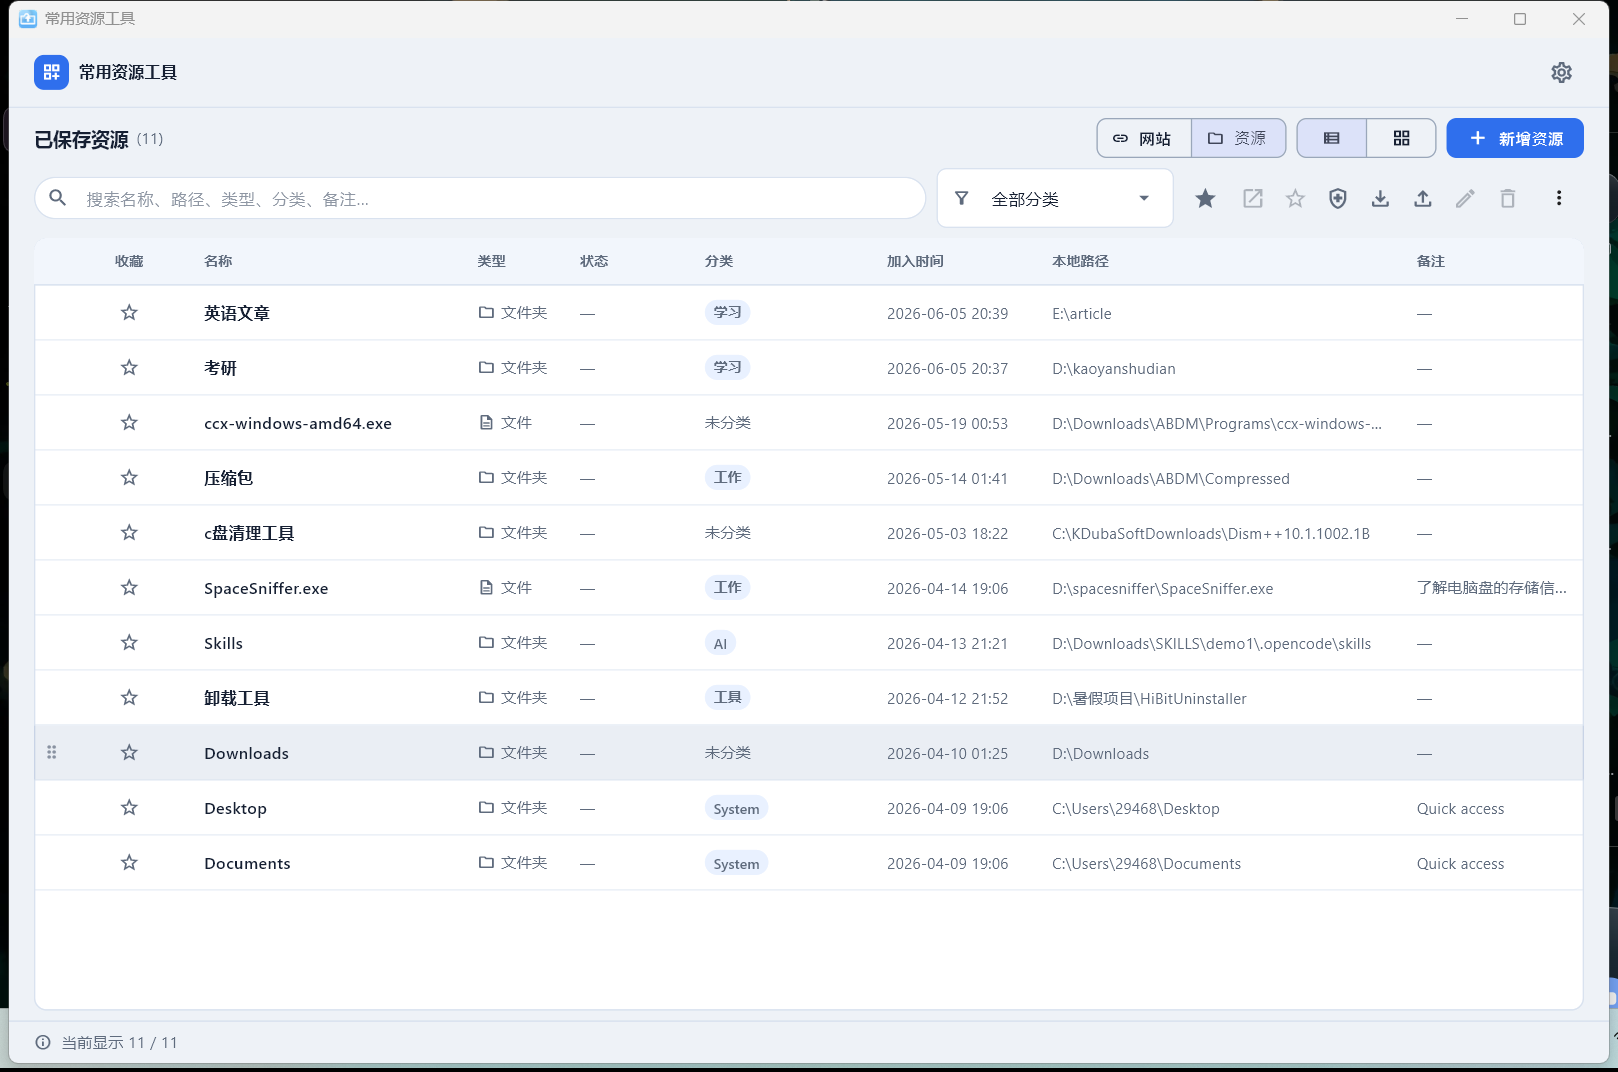
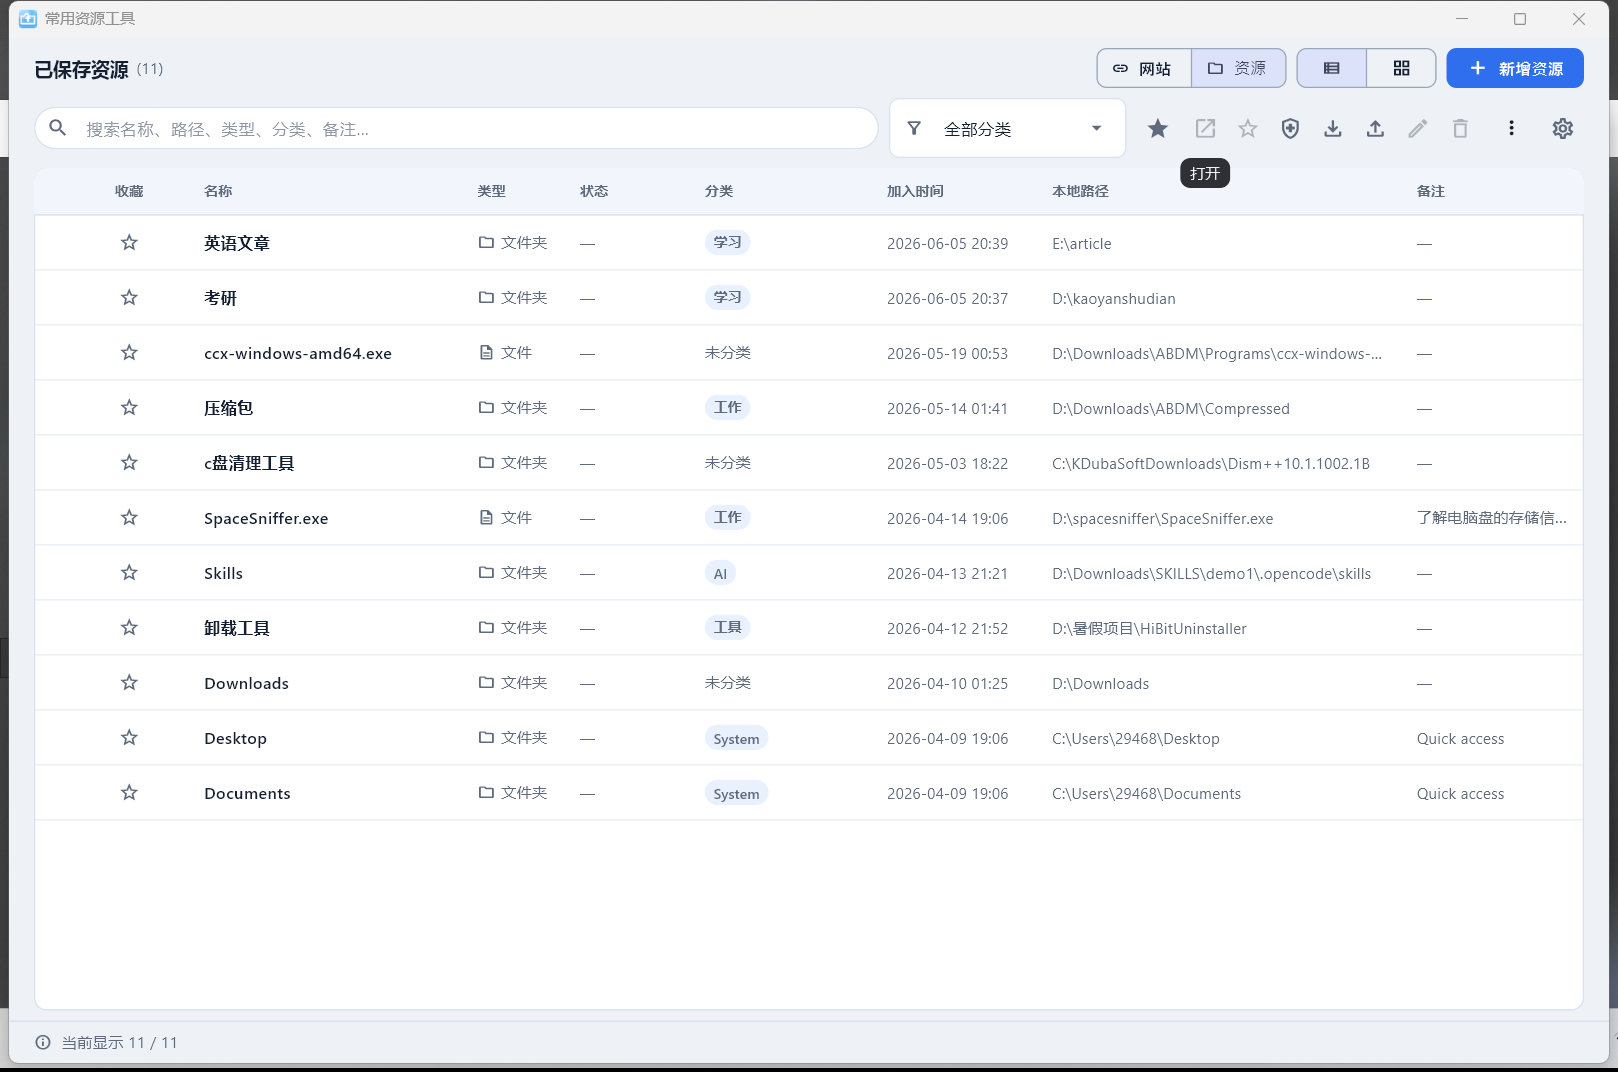
refactor: remove the in-content top bar; settings move to the toolbar
The 56px app bar under the native title bar still looked out of place, so the
workspace now starts directly below the Windows title bar (the window title still
comes from the native frame). The settings entry moves to the right end of the
second toolbar row as a gear ToolbarButton; it opens the same SettingsDialog.

- Delete app/lib/features/home/app_top_bar.dart and its HomePage usage.
- ResourceListPanel gains onOpenSettings and a settings ToolbarButton.
- Tests: drop AppTopBar assertions, assert no in-content title, workspace header
  near the top, and that the toolbar gear opens settings. Flutter 50/50.
- Docs: migration/phase10-no-top-bar.md, phase7 historical note, README/memory
  updates and before/after screenshots.

diff --git a/app/test/widget_test.dart b/app/test/widget_test.dart
@@ -11,7 +11,6 @@ import 'package:flutter_test/flutter_test.dart';
 import 'package:resource_hub/data/backend_models.dart';
 import 'package:resource_hub/data/resource_api.dart';
 import 'package:resource_hub/design/app_theme.dart';
-import 'package:resource_hub/features/home/app_top_bar.dart';
 import 'package:resource_hub/features/home/home_page.dart';
 import 'package:resource_hub/features/home/resource_detail_panel.dart';
 import 'package:resource_hub/features/home/resource_form.dart';
@@ -498,17 +497,20 @@ void main() {
     await pumpApp(tester);
 
     expect(find.byType(HomePage), findsOneWidget);
-    expect(find.text('常用资源工具'), findsOneWidget);
+    expect(find.text('常用资源工具'), findsNothing);
     expect(find.text('已保存资源'), findsOneWidget);
     expect(find.text('项目主目录'), findsOneWidget);
   });
 
-  testWidgets('compact top bar replaces the old hero header',
+  testWidgets('in-content top bar is gone and settings live in the toolbar',
       (WidgetTester tester) async {
     await pumpApp(tester);
 
-    expect(find.byType(AppTopBar), findsOneWidget);
-    expect(tester.getSize(find.byType(AppTopBar)).height, AppTopBar.height);
+    // The window title is the native Windows title bar; content starts directly
+    // with the workspace header, and settings moved into the toolbar.
+    expect(find.text('常用资源工具'), findsNothing);
+    expect(find.byTooltip('设置'), findsOneWidget);
+    expect(tester.getTopLeft(find.text('已保存资源')).dy, lessThan(120));
     // Hero block, feature chips and metric cards must be gone.
     expect(find.byType(StatCard), findsNothing);
     expect(find.text('轻量桌面资源中枢'), findsNothing);
@@ -521,7 +523,6 @@ void main() {
     await pumpApp(tester);
     await switchLanguage(tester, 'English');
 
-    expect(find.text('Resource Hub Desktop'), findsOneWidget);
     expect(find.text('Saved Resources'), findsOneWidget);
     expect(find.text('常用资源工具'), findsNothing);
   });
@@ -587,7 +588,7 @@ void main() {
     expect(Theme.of(context).brightness, Brightness.dark);
 
     final Color background = Theme.of(context).scaffoldBackgroundColor;
-    for (final String heading in <String>['已保存资源', '常用资源工具']) {
+    for (final String heading in <String>['已保存资源']) {
       final RenderParagraph paragraph =
           tester.renderObject<RenderParagraph>(find.text(heading).first);
       final Color? foreground = paragraph.text.style?.color;

diff --git a/app/lib/features/home/resource_list_panel.dart b/app/lib/features/home/resource_list_panel.dart
@@ -55,6 +55,7 @@ class ResourceListPanel extends StatelessWidget {
     required this.reorderEnabled,
     required this.onMoveItem,
     required this.onSortByAdded,
+    required this.onOpenSettings,
     this.detailsPanel,
   });
 
@@ -96,6 +97,10 @@ class ResourceListPanel extends StatelessWidget {
 
   /// One-shot "sort by date added (newest first)" from the overflow menu.
   final VoidCallback onSortByAdded;
+
+  /// Opens the settings dialog; lives in the toolbar since the in-content top
+  /// bar was removed (the native Windows title bar already names the window).
+  final VoidCallback onOpenSettings;
 
   /// Right-hand details panel, floated over the list content so the workspace
   /// header/toolbar above stays clickable.
@@ -299,6 +304,12 @@ class ResourceListPanel extends StatelessWidget {
                     ),
                   ),
                 ],
+              ),
+              const SizedBox(width: AppSpacing.xs),
+              ToolbarButton(
+                icon: Icons.settings_outlined,
+                tooltip: t.t('settings_button'),
+                onPressed: onOpenSettings,
               ),
             ],
           ),

diff --git a/app/lib/features/home/home_page.dart b/app/lib/features/home/home_page.dart
@@ -26,7 +26,6 @@ import '../../widgets/app_button.dart';
 import '../../widgets/resource_grid.dart';
 import '../../widgets/resource_table.dart';
 import '../../widgets/status_bar.dart';
-import 'app_top_bar.dart';
 import 'resource_detail_panel.dart';
 import 'resource_form.dart';
 import 'resource_list_panel.dart';
@@ -1086,7 +1085,6 @@ class _HomePageState extends State<HomePage> {
     final Widget shell = Scaffold(
       body: Column(
         children: <Widget>[
-          AppTopBar(onOpenSettings: _openSettings),
           Expanded(
             child: _loading
                 ? const Center(child: CircularProgressIndicator())
@@ -1186,6 +1184,7 @@ class _HomePageState extends State<HomePage> {
                     onMoveItem: (ResourceItem item, int targetIndex) =>
                         unawaited(_handleMoveItem(item, targetIndex)),
                     onSortByAdded: () => unawaited(_sortByAdded()),
+                        onOpenSettings: _openSettings,
                       );
                     },
                   ),

diff --git a/migration/phase10-no-top-bar.md b/migration/phase10-no-top-bar.md
@@ -1,0 +1,37 @@
+# Phase 10 — 删除内容区顶部栏（设置移到工具栏）
+
+- 日期：2026-10-18
+- 触发：用户看完 Phase 9 的界面后反馈"这个顶部还是看起来不好，直接删了吧，设置换个地方放置"
+- 范围：**只改布局**；不碰 `backend/`、数据格式、面板/mind map 逻辑
+
+---
+
+## 1. 变更
+
+- 删除 `app/lib/features/home/app_top_bar.dart`（Phase 7 的 56px 栏：应用图标 + 短标题 + 设置齿轮）。
+- `HomePage` 的 Column 从 `[AppTopBar, 工作区, 状态栏]` 变为 `[工作区, 状态栏]`：
+  内容直接开始于原生 Windows 标题栏下方，列表垂直空间增加 56px，层级只剩一道状态栏细线。
+- **设置入口**移到工作区第二行工具栏最右侧：`ToolbarButton(Icons.settings_outlined, tooltip=设置)`，
+  由 `ResourceListPanel` 的 `onOpenSettings` 回调打开原 `SettingsDialog`；语言/主题/热键/开机启动都在里面。
+- 窗口标题仍由原生标题栏显示"常用资源工具"（runner 固定标题，不依赖 Dart UI），所以删掉内容区标题不会丢窗口名。
+- 测试同步：
+  - 删除 `AppTopBar` 的 import 与断言；
+  - 新断言：内容区没有"常用资源工具"文案、工作区标题 `已保存资源` 的 y 坐标 < 120（即没有 56px 栏）、
+    工具栏存在「设置」按钮且能打开设置对话框；
+  - `openSettings` helper 仍用 tooltip「设置」定位，其它测试不变。
+- 新增截图：`phase10-no-top-bar.png`（新布局）、`phase10-settings.png`（工具栏齿轮打开设置）、`phase10-app.png`。
+
+## 2. 验证
+
+| 项 | 结果 |
+|---|---|
+| `flutter analyze` | 0 issue |
+| Flutter 测试 | **50 / 50**（只改写 1 个顶部栏测试，新增"内容区无顶部栏 / 设置进工具栏"断言；数量不变） |
+| 最小窗口 1180×760 | 现有 widget 测试覆盖，无溢出（工具栏仍放得下搜索/筛选/图标/设置） |
+| 实机 | 启动直接看到工作区；点工具栏齿轮打开设置对话框（截图）；`verify_shell.py` **9/9 PASS** |
+| 发布包 | 47.9 MB，合并进 `release\ResourceHub-Desktop-20261017-1835\`，用户数据未变 |
+
+## 3. 已知取舍
+
+- 没有菜单栏，也没有快捷键（后续可加 `Ctrl+,` 打开设置）。
+- 与 Phase 7 文档里的"56px AppTopBar"描述冲突，以本文件为准；Phase 7 文档只作历史记录。

diff --git a/migration/README.md b/migration/README.md
@@ -15,6 +15,7 @@
 | [`phase7-ui-top-layout.md`](phase7-ui-top-layout.md) | 顶部布局重构（紧凑应用栏、统一表面色、添加资源对话框、列表/网格切换） |
 | [`phase8-drag-reorder.md`](phase8-drag-reorder.md) | 手动拖动排序：数组顺序即顺序、一次性迁移、列表/网格拖拽、撤销、按时间重排 |
 | [`phase9-folder-preview.md`](phase9-folder-preview.md) | 右侧详情面板：文件夹 mind map、懒加载展开、缩放/平移、添加为资源 |
+| [`phase10-no-top-bar.md`](phase10-no-top-bar.md) | 删除内容区 56px 顶部栏，设置入口移到工作区工具栏 |
 | [`adr/ADR-001-tray-hotkey-ownership.md`](adr/ADR-001-tray-hotkey-ownership.md) | 托盘/热键归属、导入导出入口、数据覆盖风险 |
 | [`adr/ADR-002-native-shell-ownership.md`](adr/ADR-002-native-shell-ownership.md) | Windows 壳层归属（runner vs 后端） |
 

diff --git a/migration/phase7-ui-top-layout.md b/migration/phase7-ui-top-layout.md
@@ -80,3 +80,9 @@
 - 表格列顺序/字段未变；网格视图字段精简为 名称/路径/类型/分类/时间。
 
 这些都需要信息架构层面的决策，留待下一轮与用户确认后再动。
+
+---
+
+**后续调整**：Phase 10 已删除这里的 `AppTopBar`（56px 栏），内容直接开始于原生标题栏下方，
+设置入口移到工作区第二行工具栏最右侧。本文件只作为 Phase 7 的历史记录，当前布局见
+[`phase10-no-top-bar.md`](phase10-no-top-bar.md)。
